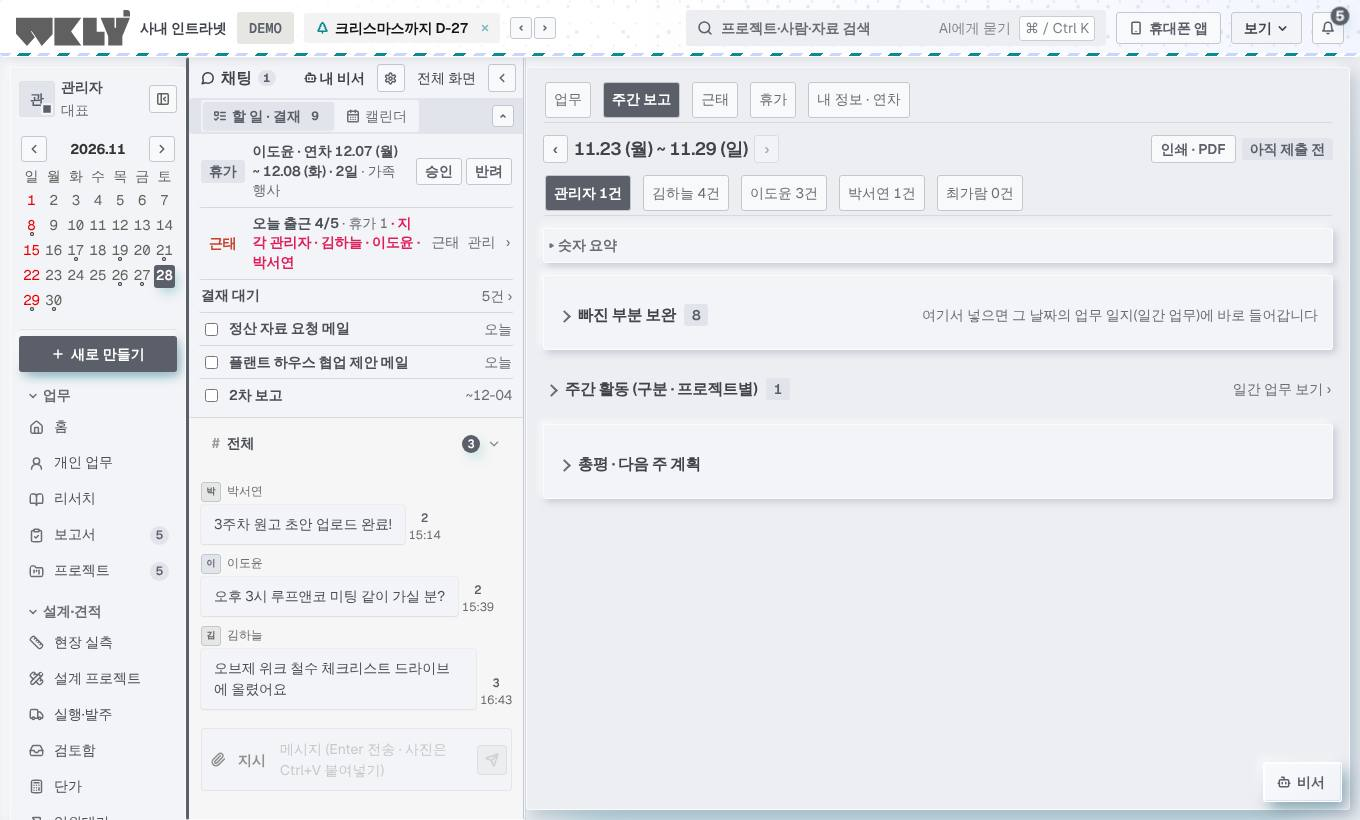
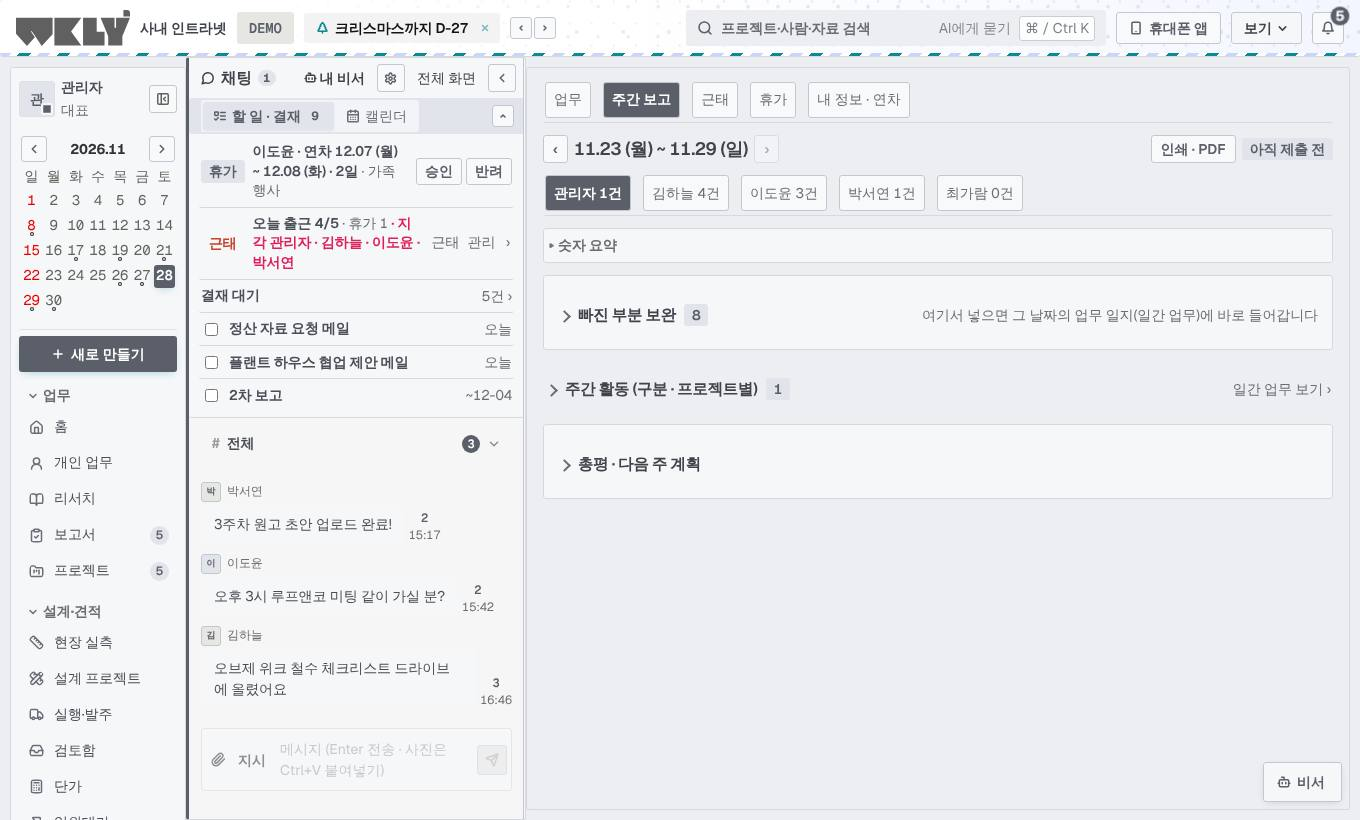
효과 최소화: 그림자 · 볼록 오목 · 번지는 빛을 걷어내고 평평한 면 + 옅은 선으로
Claude-Session: https://claude.ai/code/session_01F3gTQwJrgJEzSdbh5GAwru

Changed region(s): [[0.3706, 0.0915, 1.0, 1.0], [0.0309, 0.4268, 0.1544, 0.4878]]

diff --git a/erp/src/mono.css b/erp/src/mono.css
@@ -511,3 +511,41 @@ html:not([data-theme="dark"]) {
   --tx-title: #3f434a; --tx-body: #4a4e56; --tx-key: #5a5f69; --green: #5a5f69; --blue: #5a5f69; --pink: #5a5f69; --div-ar: #5a5f69;
 }
 html:not([data-theme="dark"]) .top-logo .logo-ink, html:not([data-theme="dark"]) .profile-logo img { opacity: .62; }
+
+/* ================================================================================
+   효과 최소화 (2026-11-28 대표 '너무 많은 효과를 제외해줘 전체 공통이야') — 앞의 볼록 · 오목 · 네온 규칙보다 우선
+   - 그림자 · 볼록 · 오목 · 번지는 빛 · 떠오름을 없앤다. 카드와 판은 평평한 면 + 옅은 선 한 줄
+   - 남기는 효과는 둘뿐: 주 버튼('새로 만들기' 등) 아래 옅은 메뉴 색 빛, 초점(키보드 · 입력 중) 테
+   ================================================================================ */
+html:not([data-theme="dark"]) {
+  --nm-up: none; --nm-up-sm: none; --nm-in: none; --nm-in-sm: none; --nm-neon: none;
+  --nm-neon-sm: 0 3px 10px -4px color-mix(in srgb, var(--v9-accent) 45%, transparent);
+  --glow-1: none; --glow-2: none; --glow-3: none; --neon-glow: none; --neon-soft: none;
+  --v8-shadow: none; --v8-shadow-pop: 0 8px 24px -12px rgba(60, 66, 80, .28);
+  --nm-face: #f6f7f9; --nm-bg: #eceef2;
+}
+html:not([data-theme="dark"]) .app-page *, html:not([data-theme="dark"]) .app-page *::before, html:not([data-theme="dark"]) .app-page *::after { text-shadow: none; }
+html:not([data-theme="dark"]) .app-page :is(.main, .web-panel, .chat-dock, .profile) { box-shadow: none !important; border: 1px solid var(--v8-line) !important; }
+html:not([data-theme="dark"]) .app-page .topbar { box-shadow: none !important; border-bottom: 1px solid var(--v8-line) !important; }
+html:not([data-theme="dark"]) :is(.box, .stat, .kpi, .card, .home-kpi, .today-card, .checkin-card, .brief, .rd-box, .pc-card, .proj-card, .pboards-item, .week-day, .div-card, .ad-pcard, .dash-kpi, .dash-card, .dash-day, .mini-cal, .home-hero, .board-wrap, .guide-card, .sales-pipe-step, .gov-tile, .ledger-kpi, .weekly-box, .form-grid, .bigcal, .explorer, .web-setting, .myproj-card, .weekly-kpis, .office-net, .site-tabs, .survey-empty, .sales-development, .sales-iv, .sales-strategy-desk, .sales-settings, .sales-bid-qualifications, .growth-empty, .growth-ai, .auto-camp, .md-library, .ai-ins, .design-add, .design-block, .sales-pipe, .section, .panel, .tile, .list-card, .rd-kpi, .ai-card, .note, details.box, .bubble) { box-shadow: none !important; border: 1px solid var(--v8-line) !important; transform: none !important; }
+html:not([data-theme="dark"]) :is(a.home-kpi, a.dash-kpi, .pc-card, .pboards-item, .proj-card, .sales-pipe-step, .gov-tile, .ai-card):hover { box-shadow: none !important; border-color: var(--v9-ink) !important; transform: none !important; }
+html:not([data-theme="dark"]) :is(.dash-kpi.is-key, .week-day.today, .dash-day.is-today) { box-shadow: none !important; border-color: var(--v9-ink) !important; }
+html:not([data-theme="dark"]) :is(.chip.active, .chip.on, .ads-subnav button.active, .ads-nav button.active, .tab.on, .tab.active, .view-tab.on, .count, .q2-badge, .m-dot, .view-tab-n, .bell .count, button.day.today, .week-day-h .dd, .dash-kpi-ic, .side-item.on, .ast-panel) { box-shadow: none !important; }
+html:not([data-theme="dark"]) :is(.ads-segment, .seg, .right-tabs) button:is(.active, .on) { box-shadow: none !important; border: 1px solid var(--v8-line-2) !important; }
+html:not([data-theme="dark"]) .app-page .profile .side-item.on { background: var(--nm-flat); border-color: transparent; }
+html:not([data-theme="dark"]) :is(.section-head, .sec-head)::before { box-shadow: none; }
+html:not([data-theme="dark"]) .dash-flow-col i, html:not([data-theme="dark"]) .dash-legend i, html:not([data-theme="dark"]) .dash-vbar-track i { box-shadow: none !important; background-image: none !important; }
+html:not([data-theme="dark"]) :is(.dash-flow-col i.f-done, .dash-legend i.f-done, .dash-vbar-track i.s-active, .dash-flow-col.is-today i.f-due) { background: var(--v9-ink) !important; }
+html:not([data-theme="dark"]) :is(.dash-flow-col i.f-late, .dash-legend i.f-late, .dash-vbar-track i.s-late) { background: #f09a86 !important; }
+html:not([data-theme="dark"]) .dash-flow-col.is-today span { font-weight: 600; text-decoration: underline; text-underline-offset: 3px; }
+/* 채팅 손잡이 · 비서 단추: 그림자 없이 선으로 */
+html:not([data-theme="dark"]) .chat-dock.closed .chat-dock-open, html:not([data-theme="dark"]) .chat-dock.closed .chat-dock-open:hover { box-shadow: none !important; }
+html:not([data-theme="dark"]) .ast-fab, html:not([data-theme="dark"]) .ast-fab:hover, html:not([data-theme="dark"]) .ast-fab.on { background: var(--nm-face) !important; -webkit-backdrop-filter: none; backdrop-filter: none; border: 1px solid var(--v8-line-2) !important; box-shadow: 0 2px 8px -4px rgba(60, 66, 80, .35) !important; }
+html:not([data-theme="dark"]) .ast-panel { background: var(--nm-face); -webkit-backdrop-filter: none; backdrop-filter: none; border: 1px solid var(--v8-line-2); box-shadow: var(--v8-shadow-pop) !important; }
+html:not([data-theme="dark"]) :is(.dialog, .modal, .top-menu-pop) { box-shadow: var(--v8-shadow-pop) !important; border: 1px solid var(--v8-line-2); }
+html:not([data-theme="dark"]) .scrim { -webkit-backdrop-filter: none; backdrop-filter: none; background: rgba(60, 66, 80, .28); }
+html:not([data-theme="dark"]) .app-page .body > .chat-dock:not(.closed) { animation-duration: .18s; }
+/* 주 버튼만 옅은 빛 */
+html:not([data-theme="dark"]) :is(.btn-primary, .new-btn, .today-ok, .btn.primary):not(:disabled), html:not([data-theme="dark"]) .app-page .profile :is(.new-btn, .btn-primary) { box-shadow: var(--nm-neon-sm) !important; }
+html:not([data-theme="dark"]) :is(.btn-primary, .new-btn, .today-ok, .btn.primary):not(:disabled):hover { box-shadow: var(--nm-neon-sm) !important; }
+@media (max-width: 760px) { html:not([data-theme="dark"]) .m-nav { box-shadow: none !important; border-top: 1px solid var(--v8-line) !important; } html:not([data-theme="dark"]) .m-more { box-shadow: none; border-top: 1px solid var(--v8-line-2); } }

diff --git a/CLAUDE.md b/CLAUDE.md
@@ -112,7 +112,7 @@ Codex 공동 개발은 끝났다(2026-11-16 종료 · 2026-11-20 대표 지시 '
   - `src/styles.css` : 디자인 토큰 · WKLY v7 디자인 시스템 (사각 모서리, 글자 크기 단계 `--fs-cap 12 · sm 12.5 · body 13.5 · sub 14.5 · title 16 · num 19 · hero 28` (2026-11-09 위계 다시 잡음 · 맨 아래 :root 가 최종값 · 터치 화면은 반 단계 큼))
   - (아래 글자 위계의 굵기 800 · 700 은 2026-11-28 디자인 v9 에서 700 · 600 으로, 색 값은 mono.css 토큰으로 바뀜 — 크기 3단계 · px 직접 쓰지 않기 규칙은 그대로)
   - **글자 위계 (2026-11-17 대표 지시 '전체 공통사항 · 글자 크기는 타이틀 · 본문 · 강조 3가지만 · 색 구분과 볼드 규칙') — 새 화면도 반드시 지킬 것**: `src/type.css` 를 main.tsx 맨 끝에서 읽어 앞의 모든 단계를 덮어씀. 크기 3개 = 타이틀 `--t-title` 18px(제목 · 큰 숫자) · 강조 `--t-em` 15.5px(소제목 · 이름 줄) · 본문 `--t-body` 14px(나머지 전부 — 날짜 · 메타 · 배지 포함, 터치 화면 18.5/16/15) · 예전 토큰은 cap/sm/small/body → 본문, sub → 강조, title/num/hero → 타이틀로 이어짐. CSS 에 px 글자 크기를 새로 쓰지 말고 var(--fs-body | --fs-sub | --fs-title) 만 쓸 것(2026-11-17 에 94곳 바꿈 · 예외는 알림 숫자 동그라미 .side-n · .q2-badge · .bell .count 12px). 굵기 3개 = 800 타이틀 · 700 강조 · 400 본문(500 · 600 · 650 · 750 안 씀 · 76곳 바꿈). 색 = --tx-title #151d18 · --tx-body #222a25 · --tx-sub #535c56(보조는 크기 대신 색으로 낮춤 · --gray 도 이 색) · --tx-key #1f6b4a(누를 수 있는 것 · 고른 것) · 빨강은 지연 · 경고만. 묶음 클래스 .tx-title · .tx-em · .tx-body · .tx-sub · .tx-key. 차트 SVG 글자(charts.tsx 등)는 그대로
-  - **디자인 v9 모노톤 + 네온 빛 (2026-11-28 대표가 핀터레스트 참고 화면 넷을 골라 '이것들을 조합해서 디자인잡아 · 인트라넷 디자인 전체를 변경해 · 모노톤과 네온 효과' → '남은 화면들도 모노톤으로 · 폰트와 디자인규칙까지 모두 변경해 · 대시보드또한 디자인 배치 다시' · '색은 첨부이미지와 같이 네온 효과' · '빛이 새어나가는 효과를 잘 만들어') — 규칙 문서 `erp/docs/DESIGN_V9.md` · 새 화면도 반드시 이 규칙**: `src/mono.css`(main.tsx 맨 끝)가 토큰을 정함. ① 색 = 회색 계열 하나(바탕 #f0f0ee · 흰 카드 · 먹색 #141414 = 고른 것 · 막대) + 네온 파랑 `--v9-accent` #1f4dff 하나 · 빨강 · 노랑은 지연 · 경고만 · 초록 점은 '정상'만 ② 네온 = 가장자리에서 오른쪽 아래로 새어 나가는 파랑 빛 `--glow-1/2/3` · `--neon-soft` — 주 버튼 · 고른 것 · 오늘 · 가장 중요한 숫자 하나 · 누를 수 있는 카드 hover 에만, 글자색으로는 안 씀 ③ 글꼴 = 영문 · 숫자 Geist · 한글 Pretendard · 큰 숫자 · 연번 Geist Mono(구글 폰트 · index.html) · 크기 18 / 15.5 / 14 그대로 + 큰 숫자 `--t-num` 24 · **굵기 700 / 600 / 400**(예전 800 / 700 을 CSS 전체에서 한 단계씩 내림) ④ 모서리 카드 14 · 버튼 10 · 알약 ⑤ 카드 틀 = 회색 머리 + 흰 본문. 같은 날 **모든 CSS 의 굳은 색을 회색으로 바꿈**(초록 · 미색 · 보라 → 같은 밝기 회색 · 파랑 → `--v9-accent` / `-tint` · '화면 어둡게' 규칙 줄은 그대로 · 빨강 · 주황 · 노랑은 그대로) — **새 CSS 에 색 값을 직접 쓰지 말고 토큰을 쓸 것.** 구분 색은 `--div-ar/tw/rs`(먹색 · 회색 · 연회색) · 달력 내 업무는 네온 파랑. 홈 대시보드 새 배치(`pages/Dashboard.tsx` · `.css`): 인사 + 주 버튼 → 숫자 카드 넷(작은 막대 · 아래 설명 줄 · 첫 카드에 빛) → '업무 흐름' 점 격자(지난 2주 끝낸 일 · 앞으로 2주 마감 · 오늘 기둥에 빛 · `lib/dashboard.ts` dayFlow) + 팀원 세로 막대 → 마감이 가까운 프로젝트 표(진행 막대 · 상태 알약) → 앞으로 7일 · 구분별 → 진행 프로젝트 카드. 같은 날 2차 '부드럽게'(대표 '아직 안 바꾼 곳들도 모두 모노톤으로' · '디자인 ui,ux도 바꿔 · 색상의 사용도 수정하고 · 부드러운 느낌'): 새까만 색 대신 부드러운 먹색 `--v9-ink` #2b2d33 · 고른 것은 검은 알약 대신 연한 파랑 바탕 · 자주 누르는 버튼(.btn-blue 등)은 연한 파랑 · 테두리 대신 옅은 그림자 · 카드 18 / 버튼 12 · **styles.css 의 '모든 모서리 0 !important' 고정을 없앰(다시 넣지 말 것)** · 빛은 테 없이 넓게 · 0.2초 전환 · 창 뒤 뿌옇게. 차트(LedgerStats · MarketingFlow) · 화이트보드(미니맵 · 커서 · Excalidraw 색) · 설계(제안 보드 견본 색 · 3D 바닥 · 도면 바탕) · 기념일 장식 띠 · PC 오프라인 화면(desktop/offline.html — 다음 PC 프로그램 릴리스 때 반영)도 회색 + 네온 파랑. 그대로 둔 것: 실제 자재 색(3D · 마감재) · 거래처에 나가는 것(제안서 슬라이드 · 영업 메일 · 카드뉴스 · 광고 이미지). 같은 날 3차 '선명하게 · 메뉴마다 다른 색'(대표 '광고 화면 기간 고르기 칸과 묶음 탭도 고쳐 · 아이콘과 배경들 각각의 카드들의 선구분을 선명하게 · 색은 각 메뉴마다 다른 색' · 참고 Product UI Styleguide): **강조색 `--v9-accent` 는 메뉴마다 다름**(`lib/menuColors.ts` · Shell 이 지금 메뉴 색을 html 에 넣음 · 빛 · 연한 바탕 · 주 버튼은 color-mix 로 계산 — CSS 에 파랑을 직접 쓰지 말 것 · 새 메뉴는 색 한 줄 추가) · 왼쪽 메뉴는 대표 지시로 다시 모노톤(아이콘 · 고른 줄 · 숫자 칸 먹색 — 메뉴 색은 화면 안에서만) · 카드는 흰 바탕 + 1px 선 #dbdbd7 + 옅은 그림자(바탕 #eeeeeb) · 광고 묶음 탭 = 홈 안의 흰 카드 · 기간 고르기 = 알약. 같은 날 4차 '볼록 · 오목'(대표가 뉴모피즘 참고 그림 두 장을 보내 '이 ui도 사용해' · '이것도 넣어'): 면은 바탕과 거의 같은 밝은 회색 · 구분은 왼쪽 위 빛 + 오른쪽 아래 그림자(`--nm-up` 떠 있음 = 카드 · 버튼 / `--nm-in` 눌림 = 입력 칸 · 고른 칩 · 고른 메뉴 줄) · 구간 고르기는 회색 홈 + 흰 알약 · 켜고 끄는 설정은 체크박스에 className `nm-switch`(스위치 모양). 같은 날 5차(대표 '나머지 화면들도 모두 볼록 오목 디자인으로 · 모서리 라운드 좀 더 각지게'): 흰 바탕을 없앰 — `--white` · `--v8-card` 와 모든 CSS 의 흰 바탕 165곳을 `var(--nm-face)` 로(**새 CSS 에 `background: #fff` 를 쓰지 말 것**) · 테두리 있는 묶음 칸 30여 종을 떠 있는 모양으로 · 모서리 카드 10 / 버튼 · 입력 · 칩 7 / 큰 판 12(알약 · 원은 스위치와 숫자 동그라미만). **같은 날 최종 규칙(대표 '너무 많은 색을 사용하지마 · 전체적으로 모노톤에 그림자를 네온 번지는 효과로 · 각 메뉴마다 다른 색' · '휴대폰 화면도 볼록 오목'): 면 · 글자 · 아이콘 · 버튼 · 숫자 동그라미는 먹색과 회색만, 메뉴 색(`--v9-accent`)은 그림자가 번지는 빛(`--nm-neon` · `--nm-neon-sm`)으로만 쓴다 — 색 글자 · 색 바탕 버튼 · 색 배지를 새로 만들지 말 것. 빨강(산호색)은 지연 · 경고만. 휴대폰 아래 메뉴도 떠 있는 판 + 고른 칸 눌린 홈.** 같은 날(대표 '채팅 화면도 볼록 오목 · 아이콘 오목으로 · 채팅 상단부 높이 내려서 왼쪽에서 돌출 · 비서도 양각 유리'): 왼쪽 메뉴 아이콘 칸 = 오목 · 접힌 채팅 칸(.chat-dock.closed) = 왼쪽 판에서 튀어나온 짧은 손잡이 · 비서 단추(.ast-fab) · 비서 창 = 양각 유리 · 채팅 방 목록 눌린 홈 / 고른 방 떠 있음 / 입력 칸 눌린 홈. **절제(대표 '양각과 음각을 너무 많이 사용하지마 사용성 떨어져'): 깊이는 한 단계만 — 떠 있는 것은 큰 카드 · 본문 판 · 주 버튼 · 비서 단추 · 접힌 채팅 손잡이, 눌린 것은 왼쪽 메뉴 아이콘 칸뿐. 카드 안의 표 · 칩 · 작은 버튼 · 입력 칸 · 막대 · 말풍선은 평평하게(옅은 선 · `--nm-flat` · `--nm-field`) — 새 화면에서 카드 안에 그림자를 또 넣지 말 것.** 화이트보드 편집기 머리(대표 '두줄로 줄이고 전체보기 네비게이션도 포함해서 접었다 펼 수 있게'): 첫 줄 = 이름 · 상태 · '도구' 단추 · 전체 화면, 둘째 줄(도구 줄 · 한 줄 · 넘치면 옆으로 밀기) = 페이지 · PPT 불러오기 · 피그마 · PNG · PDF · PPT · 지도 단추 — '도구'로 접고 폄(기본 접힘 · localStorage wkly-board-tools) · 전체 보기 지도도 도구를 펼쳤을 때만 보임. **모든 카드 접기(대표 '모든 카드는 접을 수 있게 만들고 기본은 접은 상태야' · 범위 확인 '인트라넷 전체 카드' · `lib/foldCards.ts` · main.tsx startFoldCards): 본문의 제목 줄 있는 묶음은 처음에 제목만 보이고 누르면 펼침 · 펼친 것은 브라우저에 기억(wkly-card-open) · 주소에 id · inquiry 등 특정 항목이 있으면 안 접음 · 새 카드는 제목에 SectionHead 를 쓰면 저절로 대상 · 접히면 안 되는 곳은 `data-no-fold`. 시험 tests/fold-cards.test.ts.** 같은 날(대표 '숫자 카드와 오른쪽 일정 칸도 접을 수 있게 · 모서리 라운드 최소화' · '아이콘들 양각 효과 없애 전체 공통이야'): 숫자 카드 줄 · 오른쪽 일정 칸도 이름 띠로 접고 폄(foldCards.ts GROUPS · 기본 접힘) · **모서리는 어디나 3px**(스위치 · 숫자 동그라미 · 점만 예외) · **아이콘 · 아이콘 칸은 평평하게(그림자 · 볼록 · 오목 금지)**. 같은 날(대표 '분명히 구분되게 · 왼쪽에서 늘어나게 · 선이 너무 굵어 얇게' · '검정색은 좀더 오프색으로'): 먹색 `--v9-ink` = #5a5f69(더 짙게 되돌리지 말 것) · 아이콘 선 굵기 1.5 · 접힌 채팅 손잡이 = 먹색 바탕 + 흰 글자 · 채팅 칸은 왼쪽에서 늘어나며 열림(dock-grow). 사용 안내 사진 13장 · 영상 3개 다시 찍음 · 안내 글(guides.ts 두 곳)의 홈 · 할 일(/my) · 일정(/projects?view=calendar)을 새 구조에 맞춤(agent-chat 쪽은 다음 배포 때 반영).
+  - **디자인 v9 모노톤 + 네온 빛 (2026-11-28 대표가 핀터레스트 참고 화면 넷을 골라 '이것들을 조합해서 디자인잡아 · 인트라넷 디자인 전체를 변경해 · 모노톤과 네온 효과' → '남은 화면들도 모노톤으로 · 폰트와 디자인규칙까지 모두 변경해 · 대시보드또한 디자인 배치 다시' · '색은 첨부이미지와 같이 네온 효과' · '빛이 새어나가는 효과를 잘 만들어') — 규칙 문서 `erp/docs/DESIGN_V9.md` · 새 화면도 반드시 이 규칙**: `src/mono.css`(main.tsx 맨 끝)가 토큰을 정함. ① 색 = 회색 계열 하나(바탕 #f0f0ee · 흰 카드 · 먹색 #141414 = 고른 것 · 막대) + 네온 파랑 `--v9-accent` #1f4dff 하나 · 빨강 · 노랑은 지연 · 경고만 · 초록 점은 '정상'만 ② 네온 = 가장자리에서 오른쪽 아래로 새어 나가는 파랑 빛 `--glow-1/2/3` · `--neon-soft` — 주 버튼 · 고른 것 · 오늘 · 가장 중요한 숫자 하나 · 누를 수 있는 카드 hover 에만, 글자색으로는 안 씀 ③ 글꼴 = 영문 · 숫자 Geist · 한글 Pretendard · 큰 숫자 · 연번 Geist Mono(구글 폰트 · index.html) · 크기 18 / 15.5 / 14 그대로 + 큰 숫자 `--t-num` 24 · **굵기 700 / 600 / 400**(예전 800 / 700 을 CSS 전체에서 한 단계씩 내림) ④ 모서리 카드 14 · 버튼 10 · 알약 ⑤ 카드 틀 = 회색 머리 + 흰 본문. 같은 날 **모든 CSS 의 굳은 색을 회색으로 바꿈**(초록 · 미색 · 보라 → 같은 밝기 회색 · 파랑 → `--v9-accent` / `-tint` · '화면 어둡게' 규칙 줄은 그대로 · 빨강 · 주황 · 노랑은 그대로) — **새 CSS 에 색 값을 직접 쓰지 말고 토큰을 쓸 것.** 구분 색은 `--div-ar/tw/rs`(먹색 · 회색 · 연회색) · 달력 내 업무는 네온 파랑. 홈 대시보드 새 배치(`pages/Dashboard.tsx` · `.css`): 인사 + 주 버튼 → 숫자 카드 넷(작은 막대 · 아래 설명 줄 · 첫 카드에 빛) → '업무 흐름' 점 격자(지난 2주 끝낸 일 · 앞으로 2주 마감 · 오늘 기둥에 빛 · `lib/dashboard.ts` dayFlow) + 팀원 세로 막대 → 마감이 가까운 프로젝트 표(진행 막대 · 상태 알약) → 앞으로 7일 · 구분별 → 진행 프로젝트 카드. 같은 날 2차 '부드럽게'(대표 '아직 안 바꾼 곳들도 모두 모노톤으로' · '디자인 ui,ux도 바꿔 · 색상의 사용도 수정하고 · 부드러운 느낌'): 새까만 색 대신 부드러운 먹색 `--v9-ink` #2b2d33 · 고른 것은 검은 알약 대신 연한 파랑 바탕 · 자주 누르는 버튼(.btn-blue 등)은 연한 파랑 · 테두리 대신 옅은 그림자 · 카드 18 / 버튼 12 · **styles.css 의 '모든 모서리 0 !important' 고정을 없앰(다시 넣지 말 것)** · 빛은 테 없이 넓게 · 0.2초 전환 · 창 뒤 뿌옇게. 차트(LedgerStats · MarketingFlow) · 화이트보드(미니맵 · 커서 · Excalidraw 색) · 설계(제안 보드 견본 색 · 3D 바닥 · 도면 바탕) · 기념일 장식 띠 · PC 오프라인 화면(desktop/offline.html — 다음 PC 프로그램 릴리스 때 반영)도 회색 + 네온 파랑. 그대로 둔 것: 실제 자재 색(3D · 마감재) · 거래처에 나가는 것(제안서 슬라이드 · 영업 메일 · 카드뉴스 · 광고 이미지). 같은 날 3차 '선명하게 · 메뉴마다 다른 색'(대표 '광고 화면 기간 고르기 칸과 묶음 탭도 고쳐 · 아이콘과 배경들 각각의 카드들의 선구분을 선명하게 · 색은 각 메뉴마다 다른 색' · 참고 Product UI Styleguide): **강조색 `--v9-accent` 는 메뉴마다 다름**(`lib/menuColors.ts` · Shell 이 지금 메뉴 색을 html 에 넣음 · 빛 · 연한 바탕 · 주 버튼은 color-mix 로 계산 — CSS 에 파랑을 직접 쓰지 말 것 · 새 메뉴는 색 한 줄 추가) · 왼쪽 메뉴는 대표 지시로 다시 모노톤(아이콘 · 고른 줄 · 숫자 칸 먹색 — 메뉴 색은 화면 안에서만) · 카드는 흰 바탕 + 1px 선 #dbdbd7 + 옅은 그림자(바탕 #eeeeeb) · 광고 묶음 탭 = 홈 안의 흰 카드 · 기간 고르기 = 알약. 같은 날 4차 '볼록 · 오목'(대표가 뉴모피즘 참고 그림 두 장을 보내 '이 ui도 사용해' · '이것도 넣어'): 면은 바탕과 거의 같은 밝은 회색 · 구분은 왼쪽 위 빛 + 오른쪽 아래 그림자(`--nm-up` 떠 있음 = 카드 · 버튼 / `--nm-in` 눌림 = 입력 칸 · 고른 칩 · 고른 메뉴 줄) · 구간 고르기는 회색 홈 + 흰 알약 · 켜고 끄는 설정은 체크박스에 className `nm-switch`(스위치 모양). 같은 날 5차(대표 '나머지 화면들도 모두 볼록 오목 디자인으로 · 모서리 라운드 좀 더 각지게'): 흰 바탕을 없앰 — `--white` · `--v8-card` 와 모든 CSS 의 흰 바탕 165곳을 `var(--nm-face)` 로(**새 CSS 에 `background: #fff` 를 쓰지 말 것**) · 테두리 있는 묶음 칸 30여 종을 떠 있는 모양으로 · 모서리 카드 10 / 버튼 · 입력 · 칩 7 / 큰 판 12(알약 · 원은 스위치와 숫자 동그라미만). **같은 날 최종 규칙(대표 '너무 많은 색을 사용하지마 · 전체적으로 모노톤에 그림자를 네온 번지는 효과로 · 각 메뉴마다 다른 색' · '휴대폰 화면도 볼록 오목'): 면 · 글자 · 아이콘 · 버튼 · 숫자 동그라미는 먹색과 회색만, 메뉴 색(`--v9-accent`)은 그림자가 번지는 빛(`--nm-neon` · `--nm-neon-sm`)으로만 쓴다 — 색 글자 · 색 바탕 버튼 · 색 배지를 새로 만들지 말 것. 빨강(산호색)은 지연 · 경고만. 휴대폰 아래 메뉴도 떠 있는 판 + 고른 칸 눌린 홈.** 같은 날(대표 '채팅 화면도 볼록 오목 · 아이콘 오목으로 · 채팅 상단부 높이 내려서 왼쪽에서 돌출 · 비서도 양각 유리'): 왼쪽 메뉴 아이콘 칸 = 오목 · 접힌 채팅 칸(.chat-dock.closed) = 왼쪽 판에서 튀어나온 짧은 손잡이 · 비서 단추(.ast-fab) · 비서 창 = 양각 유리 · 채팅 방 목록 눌린 홈 / 고른 방 떠 있음 / 입력 칸 눌린 홈. **절제(대표 '양각과 음각을 너무 많이 사용하지마 사용성 떨어져'): 깊이는 한 단계만 — 떠 있는 것은 큰 카드 · 본문 판 · 주 버튼 · 비서 단추 · 접힌 채팅 손잡이, 눌린 것은 왼쪽 메뉴 아이콘 칸뿐. 카드 안의 표 · 칩 · 작은 버튼 · 입력 칸 · 막대 · 말풍선은 평평하게(옅은 선 · `--nm-flat` · `--nm-field`) — 새 화면에서 카드 안에 그림자를 또 넣지 말 것.** 화이트보드 편집기 머리(대표 '두줄로 줄이고 전체보기 네비게이션도 포함해서 접었다 펼 수 있게'): 첫 줄 = 이름 · 상태 · '도구' 단추 · 전체 화면, 둘째 줄(도구 줄 · 한 줄 · 넘치면 옆으로 밀기) = 페이지 · PPT 불러오기 · 피그마 · PNG · PDF · PPT · 지도 단추 — '도구'로 접고 폄(기본 접힘 · localStorage wkly-board-tools) · 전체 보기 지도도 도구를 펼쳤을 때만 보임. **모든 카드 접기(대표 '모든 카드는 접을 수 있게 만들고 기본은 접은 상태야' · 범위 확인 '인트라넷 전체 카드' · `lib/foldCards.ts` · main.tsx startFoldCards): 본문의 제목 줄 있는 묶음은 처음에 제목만 보이고 누르면 펼침 · 펼친 것은 브라우저에 기억(wkly-card-open) · 주소에 id · inquiry 등 특정 항목이 있으면 안 접음 · 새 카드는 제목에 SectionHead 를 쓰면 저절로 대상 · 접히면 안 되는 곳은 `data-no-fold`. 시험 tests/fold-cards.test.ts.** 같은 날(대표 '숫자 카드와 오른쪽 일정 칸도 접을 수 있게 · 모서리 라운드 최소화' · '아이콘들 양각 효과 없애 전체 공통이야'): 숫자 카드 줄 · 오른쪽 일정 칸도 이름 띠로 접고 폄(foldCards.ts GROUPS · 기본 접힘) · **모서리는 어디나 3px**(스위치 · 숫자 동그라미 · 점만 예외) · **아이콘 · 아이콘 칸은 평평하게(그림자 · 볼록 · 오목 금지)**. 같은 날(대표 '분명히 구분되게 · 왼쪽에서 늘어나게 · 선이 너무 굵어 얇게' · '검정색은 좀더 오프색으로'): 먹색 `--v9-ink` = #5a5f69(더 짙게 되돌리지 말 것) · 아이콘 선 굵기 1.5 · 접힌 채팅 손잡이 = 먹색 바탕 + 흰 글자 · 채팅 칸은 왼쪽에서 늘어나며 열림(dock-grow). **효과 최소화(대표 '너무 많은 효과를 제외해줘 전체 공통이야' · 앞의 볼록 · 오목 · 네온 규칙보다 우선): 그림자 · 볼록 · 오목 · 번지는 빛 · 떠오름 · 유리 효과를 쓰지 않는다 — 카드 · 판은 평평한 면 + 옅은 선 한 줄, 고른 것 · 오늘은 먹색 선이나 연한 바탕. 남기는 것은 주 버튼 아래 옅은 빛 · 초점 테 · 떠 있는 창의 옅은 그림자뿐. 새 CSS 에 box-shadow · backdrop-filter 를 넣지 말 것.** 사용 안내 사진 13장 · 영상 3개 다시 찍음 · 안내 글(guides.ts 두 곳)의 홈 · 할 일(/my) · 일정(/projects?view=calendar)을 새 구조에 맞춤(agent-chat 쪽은 다음 배포 때 반영).
   - 디자인 v8 (2026-11-16 대표 지시 '인트라넷 디자인 개선해' · Houzz Pro 스타일 계획 문서 1단계): `src/refresh.css` 를 main.tsx 맨 끝에서 읽음 — 따뜻한 미색 바탕(#f6f4ef) · 흰 작업 칸 · 둥근 모서리(카드 12 · 버튼·입력 8 · 태그 알약, v7 의 '모두 사각'을 덮어씀) · 흰 위쪽 바(초록 로고) · 테두리 없는 메뉴(고른 줄 흰 칸) · 밑줄 탭 · 가로선만 표 · 연한 배지 · 글꼴 Pretendard(jsdelivr · 무료) + 숫자도 같은 글꼴 고정폭. 색은 `html:not([data-theme=dark])` 에만 → '화면 어둡게'는 그대로. 새 화면은 --v8-* 토큰을 쓸 것. import 한 줄을 빼면 v7 로 돌아감
   - 실행 내역 엑셀 읽기 (2026-11-17 대표 우선순위 3 '실제 프로젝트로 검증'): `lib/designCost.ts` parseCostSheet 가 회사 '실행집행 내역서' 양식(구분 · 견적 항목 · 실행 내역 · 단위 · 수량 · 실행 단가 · 실행 금액 · 발주처 · 근거·확인)도 읽음 — 품목 = 실행 내역, 구분 · 견적 항목은 아래 줄로 이어 씀(견적 항목은 비고 앞 [ ]), 단위 저장, 발주처 '미정 · 내부 · —'는 업체 없음. 예전엔 '실행 단가' 머리 줄을 못 알아봐 '실행 내역을 찾지 못했습니다'가 났음. 시험 tests/design-cost.test.ts. 11/17 로제코(AR2610-08) 설계 프로젝트에 실물 60줄 · 49,703,600원 넣어 확인(openpyxl 계산과 일치 · 견적 공급가 6,000만 대비 실행 82.8%). 조달청 물가 기준은 이 견적처럼 인건비(인) · 식 단위가 많으면 0/60 매칭 → 시중노임단가 기준이 다음 과제
   - 사진 카드 (2026-11-17 대표 우선순위 1 'Houzz Pro 식 화면 개편'): 프로젝트 카드(홈 · 프로젝트 '카드' 보기 · `components/ProjectCards.tsx`) 맨 위 16:10 대표 사진 + 사진 위 구분 알약 · 남은 기간, 사진 없으면 구분 색 바탕에 연번. 프로젝트 상세 머리 아래 표지 사진(`ProjectCoverBanner` · 사진 있을 때만). 홈 숫자 카드 4개 왼쪽 아이콘 타일. 사진은 서버 함수 `project-covers`(verify_jwt false · x-sync-key = GDRIVE_SYNC_KEY · 10분마다 cron project_covers → private.project_covers_tick)가 drive_index 사진 중 하나를 골라(`project-covers/cover.ts` pickCover: 준공 · 촬영 > 투시도 · 렌더 · 성과물 그래픽 > 현장 사진(상권조사 제외) > 컨셉 · 시안 > 기타 · 계약 · 견적 · 통장 · 명함 · 캡처 · 로고 · 슬랙 · 카톡 제외 · 60KB 이상) 드라이브 미리보기(긴 변 800px)만 비공개 보관함 project-covers 에 넣음 · 표 public.project_covers(활성 팀원 읽기 · 쓰기는 서버만 · source auto|manual · 자동은 3일마다 다시 고름) · api.projectCovers()(서명 주소 1시간 · signedUrlCache) · 체험 모드는 사진 없음. 20261117201000_project_covers. 시험 `npm run test:covers`

diff --git a/erp/docs/DESIGN_V9.md b/erp/docs/DESIGN_V9.md
@@ -106,3 +106,10 @@
 
 - (2026-11-28 대표 지시 · 위 규칙보다 우선) **모서리는 어디나 3px**(스위치 · 숫자 동그라미 · 점만 둥글게). **아이콘 · 아이콘 칸에는 그림자 · 볼록 · 오목을 주지 않는다.** 제목 줄 없는 묶음(숫자 카드 줄 · 오른쪽 일정 칸)도 이름 띠('숫자 요약' · '일정')를 눌러 접고 편다 — foldCards.ts GROUPS.
 - (2026-11-28 대표 지시) 먹색은 연한 오프 블랙 `--v9-ink` #5a5f69(제목 글자 #3f434a) · 아이콘 선 굵기 1.5 · 접힌 채팅 손잡이는 먹색 바탕 + 흰 글자로 또렷하게, 펼치면 왼쪽에서 늘어나며 열리고 왼쪽에 먹색 선.
+
+## 효과 최소화 (2026-11-28 대표 '너무 많은 효과를 제외해줘 전체 공통이야' — 이 문서의 모든 앞 절보다 우선)
+
+- 그림자 · 볼록 · 오목 · 번지는 빛 · 떠오름 · 유리(뒤 흐림)를 쓰지 않는다. `--nm-up` · `--nm-in` · `--nm-neon` · `--glow-*` 토큰은 모두 `none`.
+- 카드 · 판 · 말풍선은 평평한 면(`--nm-face`) + 옅은 선 한 줄(`--v8-line`). 고른 것 · 오늘 · 가장 중요한 카드는 먹색 선 또는 연한 바탕(`--nm-flat`)으로만 표시.
+- 남기는 효과는 주 버튼 아래 옅은 메뉴 색 빛(`--nm-neon-sm`)과 초점 테, 떠 있는 창(대화 창 · 메뉴)의 옅은 그림자(`--v8-shadow-pop`)뿐.
+- 새 CSS 에 `box-shadow` · `backdrop-filter` · `transform` 으로 떠오르는 효과를 넣지 않는다.
